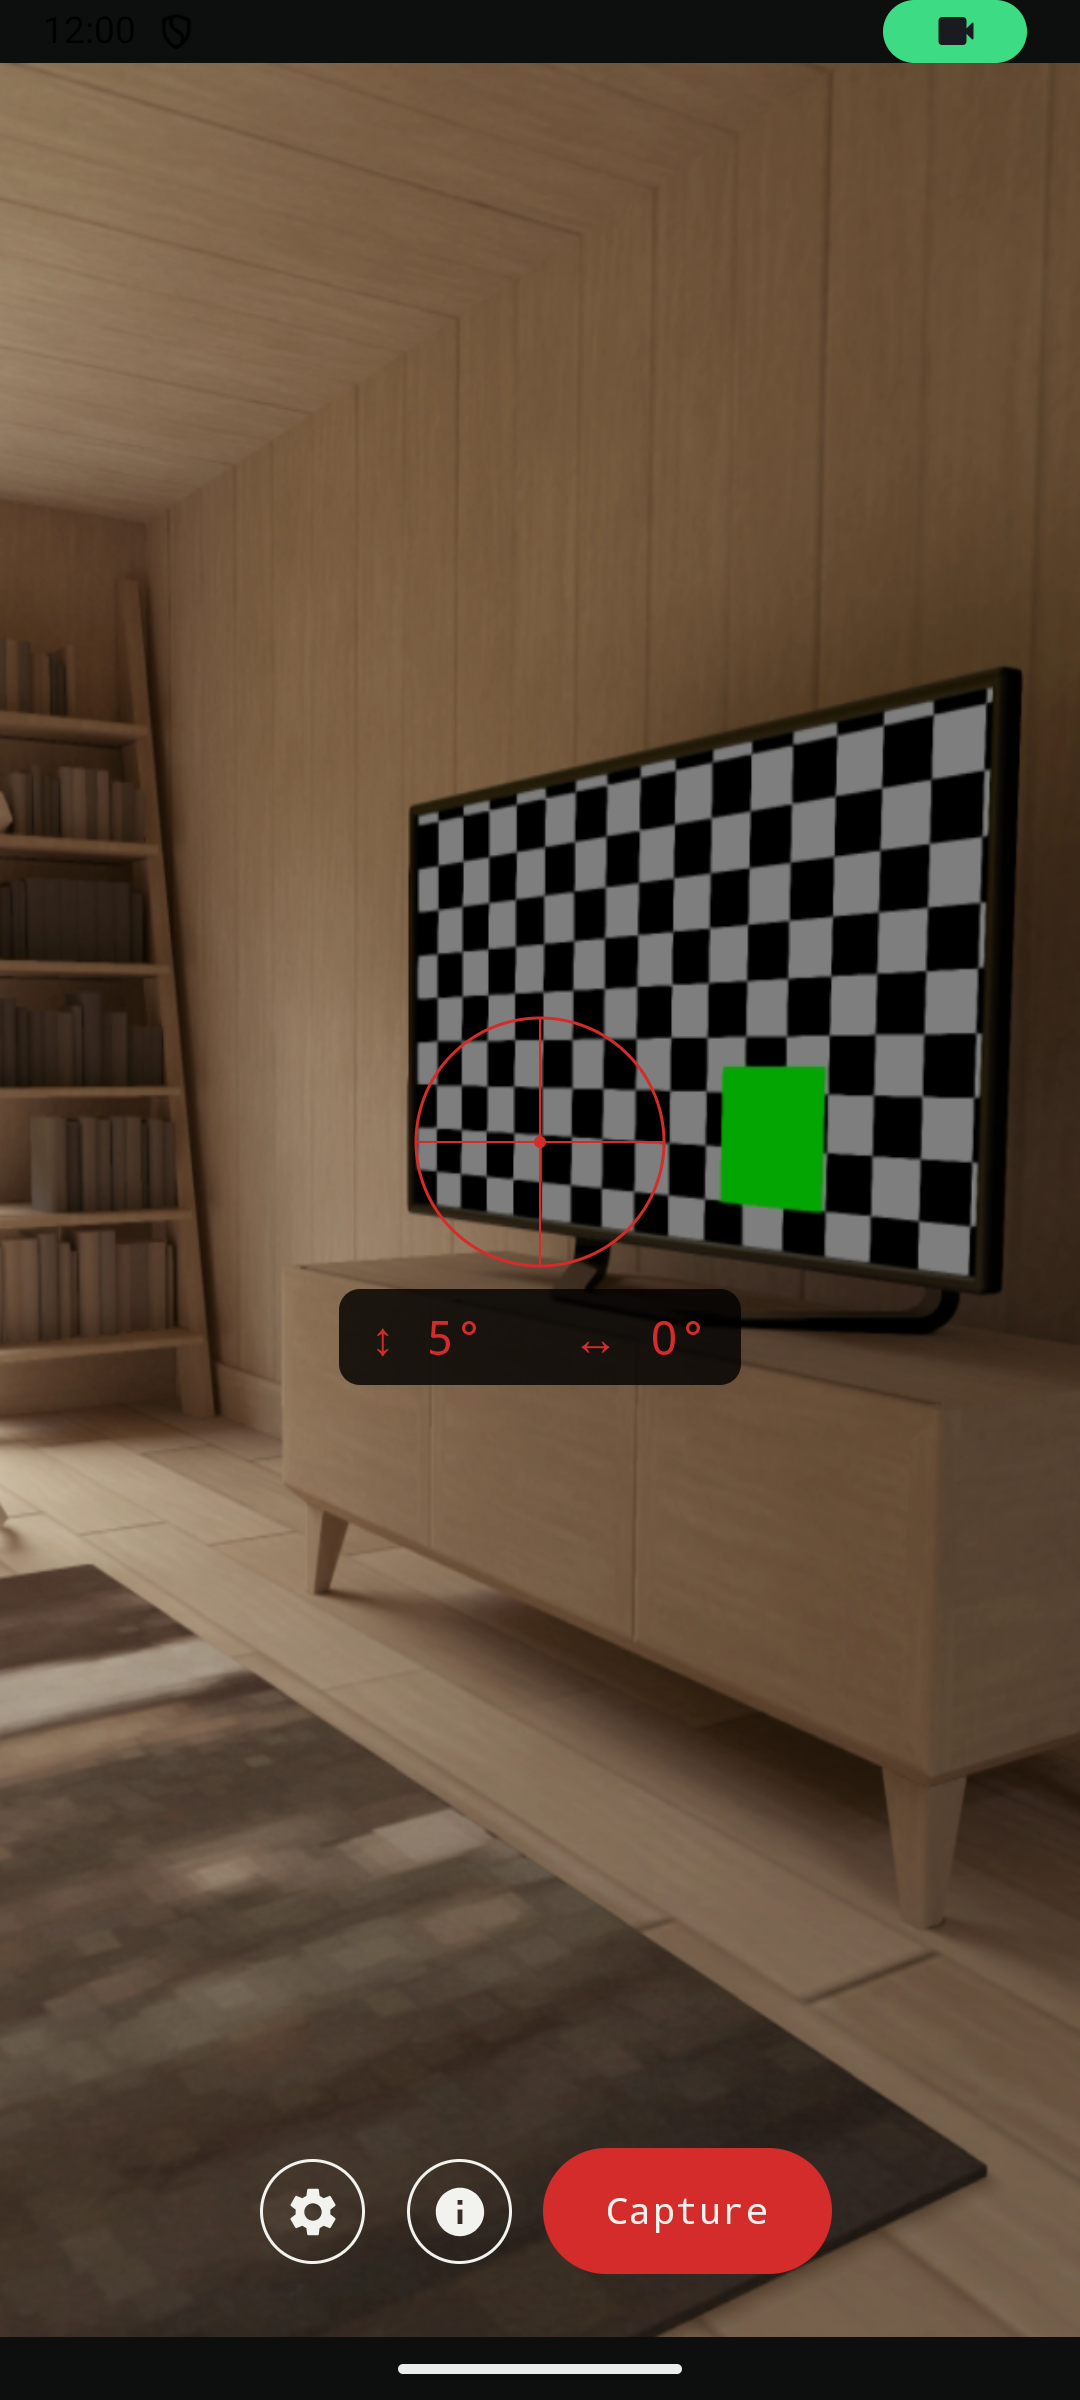
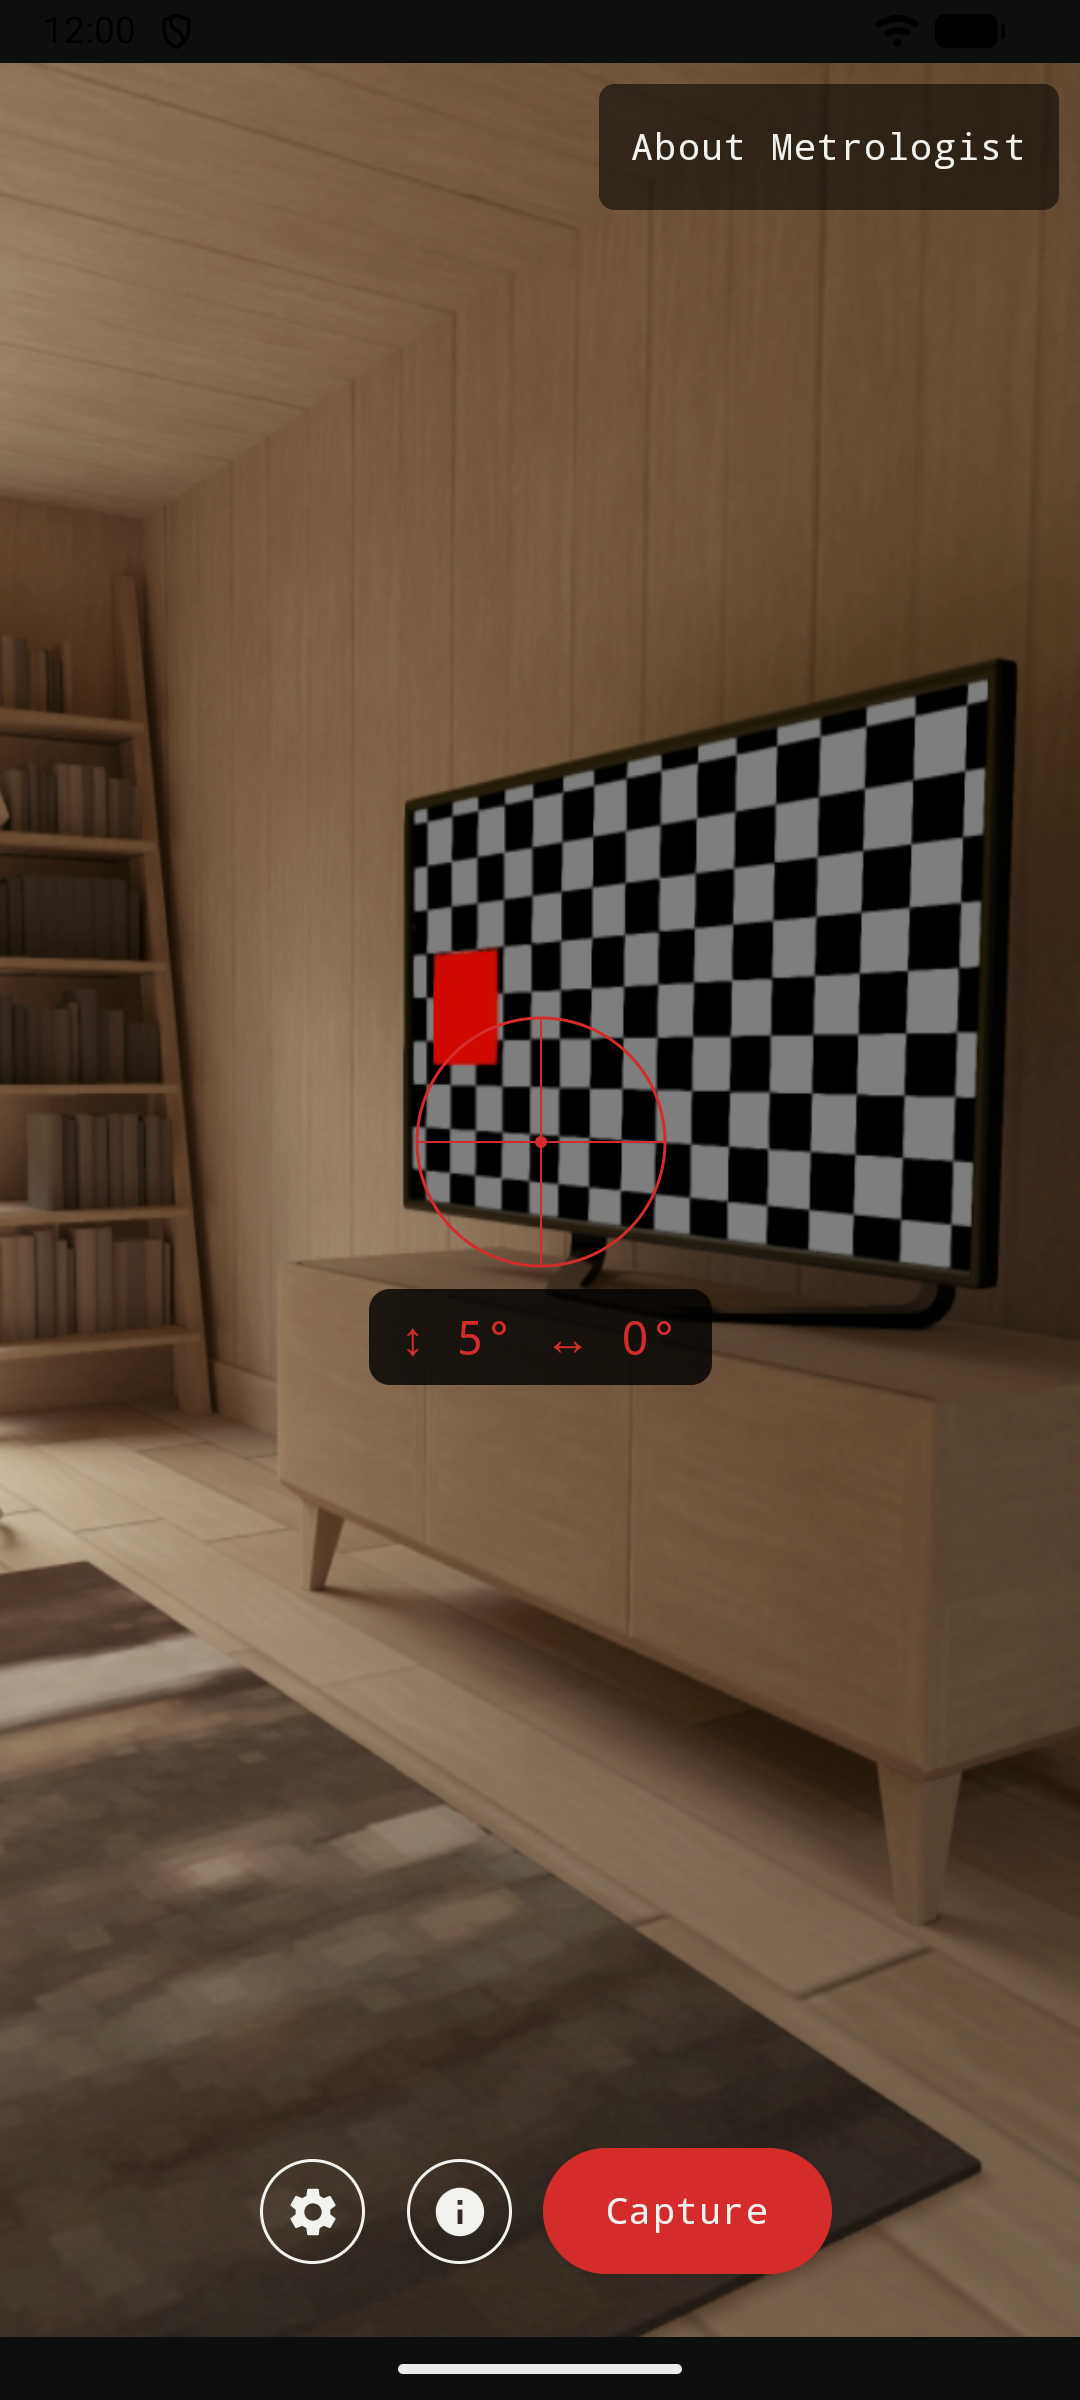
chore: retake the store screenshots from this build, add two in Danish
The camera screen now has the About Metrologist button, so the two en-US
screenshots are retaken (camera screen, marking screen). The da-DK listing
gets the Danish camera screen and the Danish About screen. Real app on an
emulator, status bar fixed at 12:00, no personal data, losslessly optimised.
Also removes two dashes from Persian sentences this PR already rewrote.

Claude-Session: https://claude.ai/code/session_01EduxjKmfMFTAd8K553rQMR

diff --git a/website/privacy/index.html b/website/privacy/index.html
@@ -245,7 +245,7 @@
         </ul>
 
         <h2>تنظیماتی که انتخاب میکنید</h2>
-        <p>ترجیحات شما — طول و عرض چوب مرجع و واحد نمایش دلخواهتان (سانتیمتر، فوت و اینچ یا متر) — در یک فایل
+        <p>ترجیحات شما، یعنی طول و عرض چوب مرجع و واحد نمایش دلخواهتان (سانتیمتر، فوت و اینچ یا متر)، در یک فایل
         تنظیماتِ کوچکِ خصوصی روی دستگاه خودتان ذخیره میشود. برنامه این فایل را جایی نمیفرستد و با
         حذف برنامه یا پاککردن دادههای آن از گوشی پاک میشود. اگر پشتیبانگیری اندروید روشن باشد،
         این فایل ممکن است در پشتیبان گوگل شما کپی شود و از آن بازیابی شود (بخش «پشتیبانگیری دستگاه» را ببینید).</p>

diff --git a/website/fa/index.html b/website/fa/index.html
@@ -325,7 +325,7 @@
         <div class="opensource-block reveal">
           <span class="license-badge">مجوز Apache-2.0</span>
           <p>
-            متروژیست کاملاً اوپنسورس است. موتور اندازهگیری، رابط کاربری، تستها — همه در گیتهاب. میتوانی استفاده کنی، فورک بزنی یا از آن یاد بگیری. از مشارکتت استقبال میکنیم.
+            متروژیست کاملاً اوپنسورس است. موتور اندازهگیری، رابط کاربری، تستها: همه در گیتهاب. میتوانی استفاده کنی، فورک بزنی یا از آن یاد بگیری. از مشارکتت استقبال میکنیم.
           </p>
           <p>
             ساختهشده توسط <a href="https://cocode.dk" target="_blank" rel="noreferrer">Cocode</a> ·
